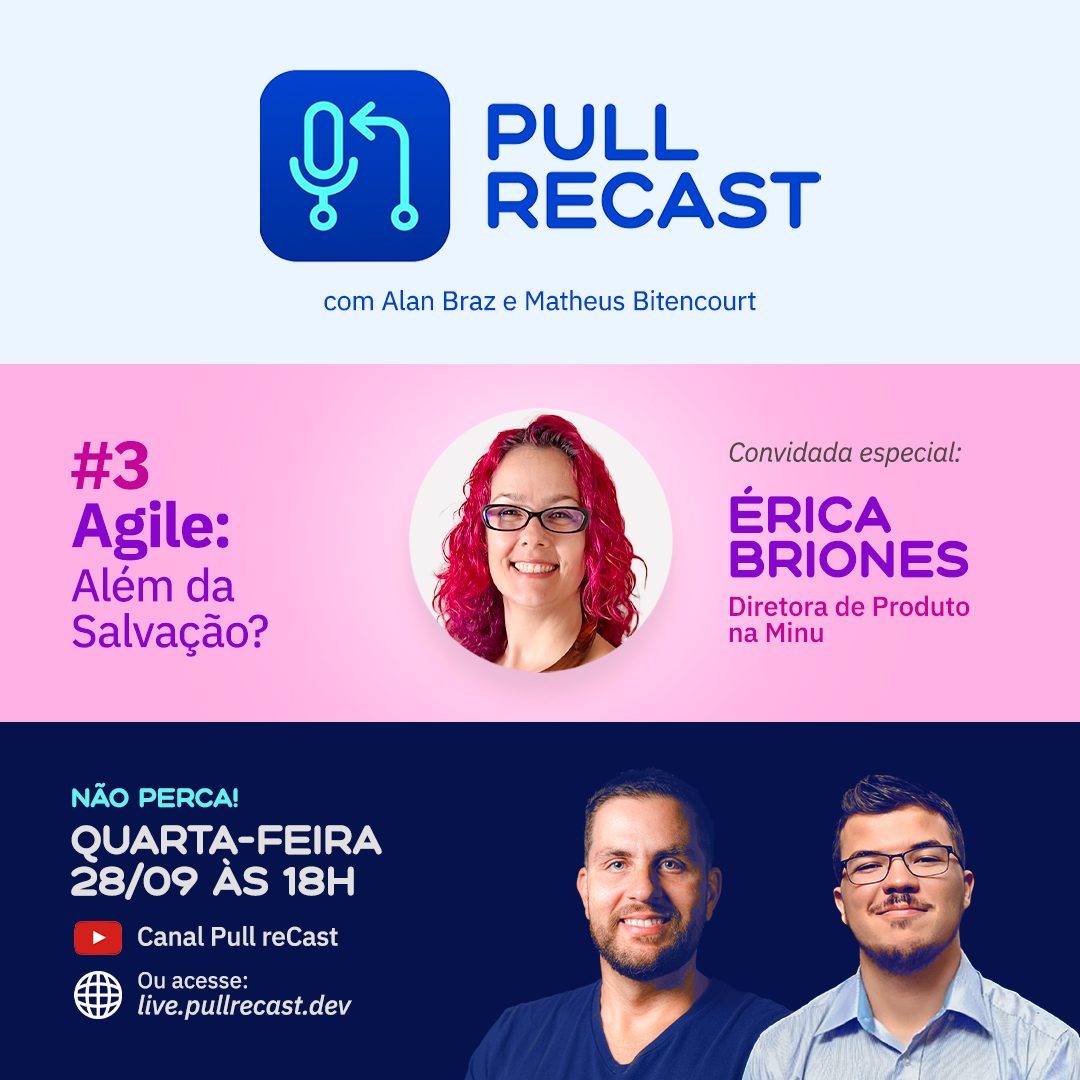
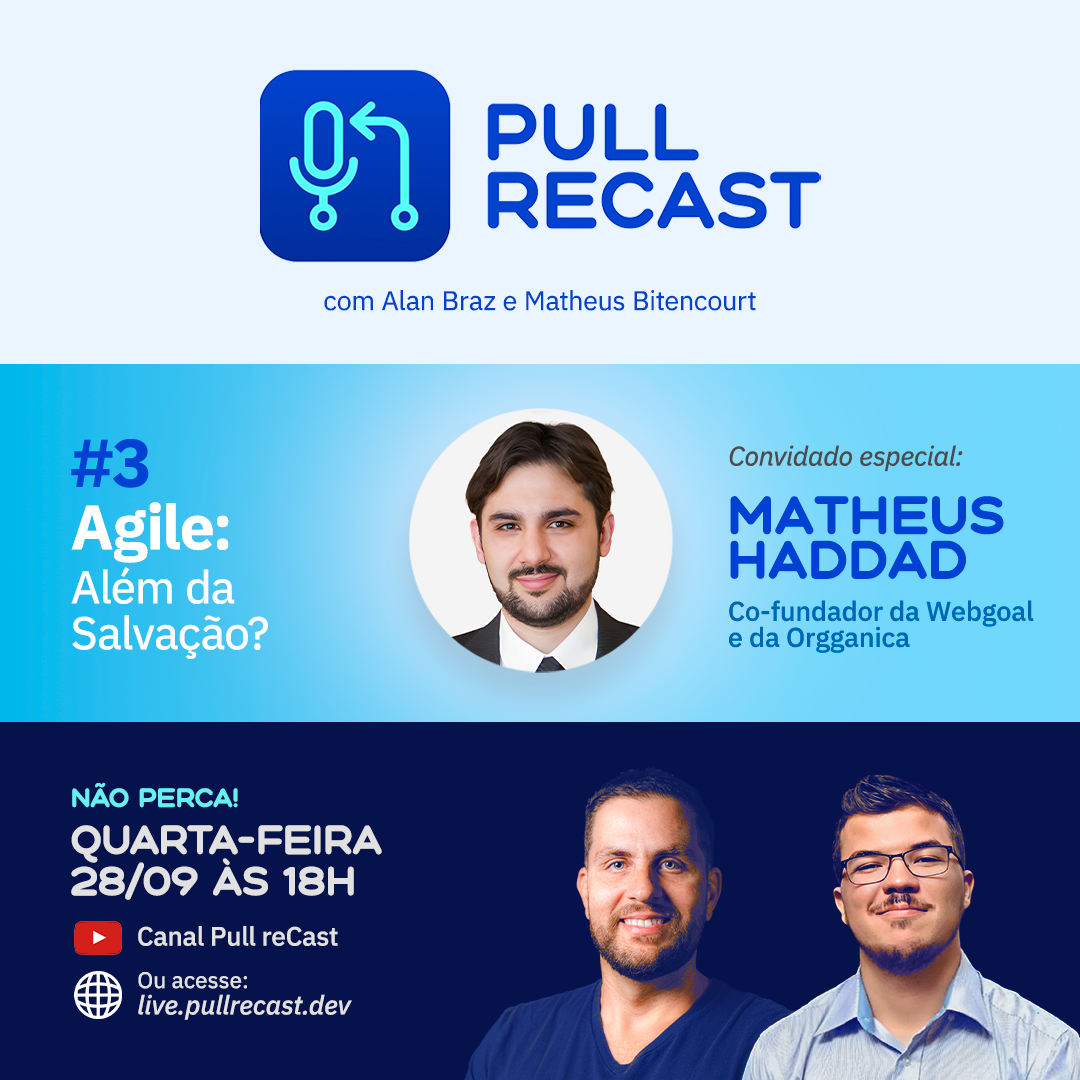
matheus

diff --git a/content/ep003.md b/content/ep003.md
@@ -13,9 +13,7 @@ description: Agile, além da salvação?
 
 :calendar: [Adicione aqui no seu calendário!](/calendar/ep003.ics)
 
-Nossa convidada especial será a **Érica Briones Graciano** ([instagram](https://www.instagram.com/erica_briones/) e [LinkedIn](https://www.linkedin.com/in/ericabriones/)).
-
-Érica já criou empresas, capítulos de produto e inovação, concebeu e reinventou estratégias de produtos e organizações. Profissional intensa, com mais de 20 anos de experiência, eternamente curiosa, uma visionária pragmática de visão holística que busca transformar o mundo em ao menos uma fração do que ela acredita que ele pode ser. Diretora de Produto na Minu, Board Member da [Agile Alliance Brazil](https://www.agilealliance.org/agilealliancebrazil), embaixadora  da comunidade Mulheres de Produto, Ex-CPO da Lemon Energy e ex-Head de Produto da Easynvest.
+Nosso convidado especial será o [Matheus Haddad](https://www.linkedin.com/in/matheushaddad/), que é Co-fundador da Webgoal e da Orgganica, e palestrante de diversos eventos de agilidade!
 
 Tema inspirado pelos vídeos:
 
